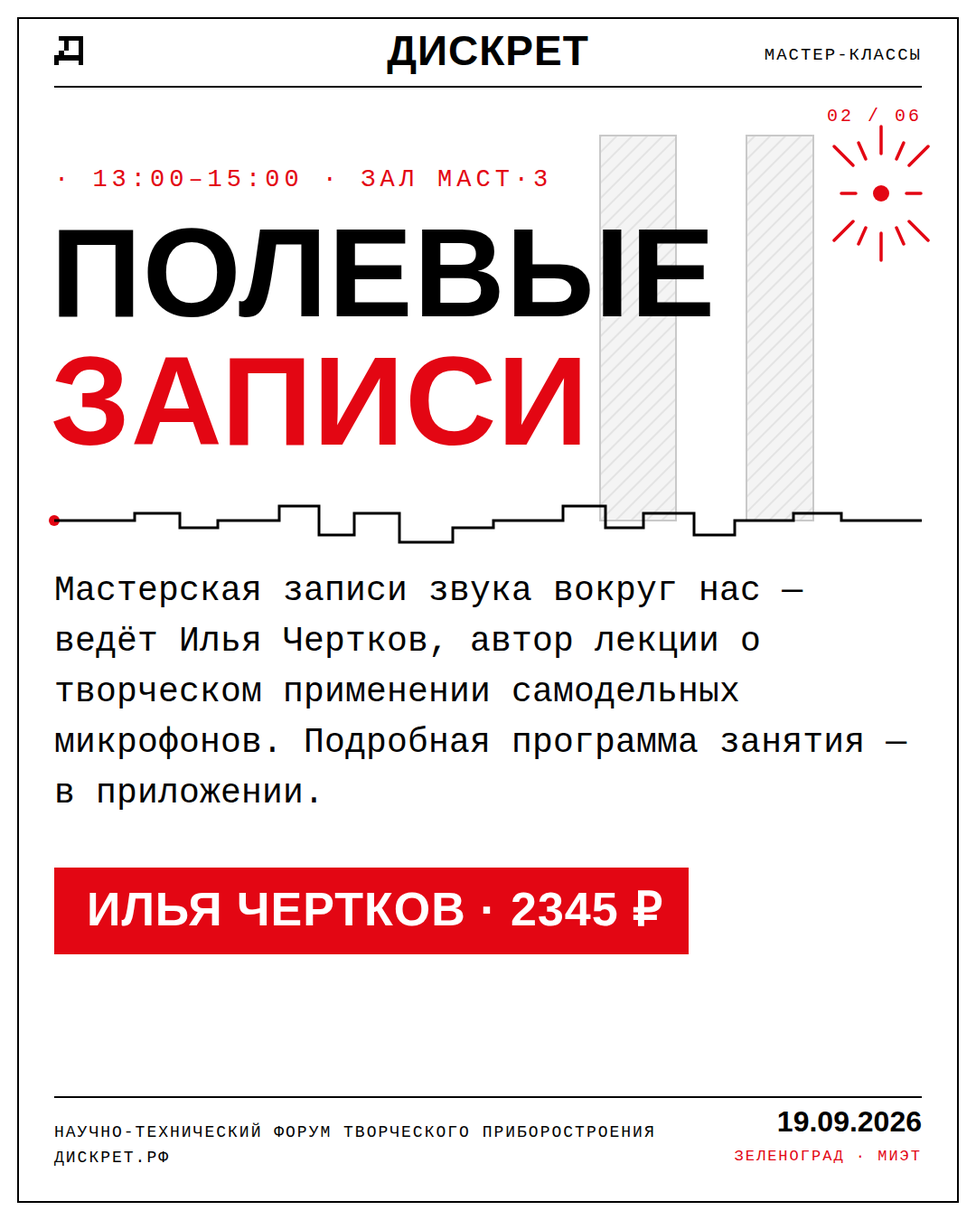
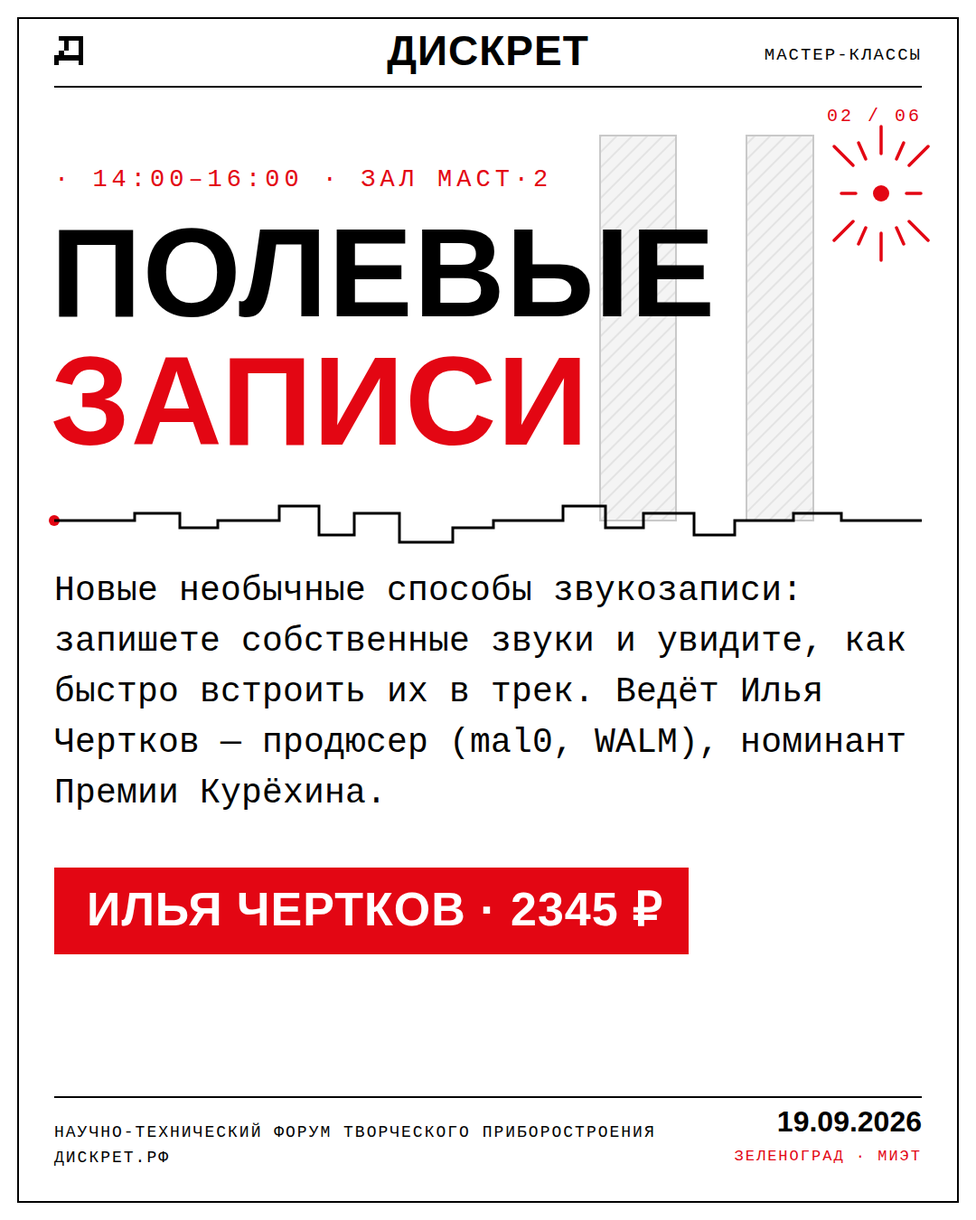
Полное расписание по финальной сетке: лектории Растр/Вектор, программа одним листом
- залы переименованы: РАСТР (3101, широкая аудитория) и ВЕКТОР (3104,
  технический язык); сцены — КЛУБ и ДК; демо-сцена на экспо
- в расписание сайта добавлены все 10 лекций + Забелин (Ground) и
  Орлов-Давыдовский на демо-сцене; мастерских теперь две (Чертков
  переехал в МАСТ·2, 14:00–16:00); детские — 6–12 и 10–99 лет
- programma-tg (1080×1350): вся программа дня на одном листе
- карточка Черткова: биография и связка мастерская+лекция
- press/lectures.md: полные описания лекций с доски
- контент-план: лекторий финализирован, Мирзоев и его тема, пост
  программы 13.09 написан, время Черткова обновлено

Claude-Session: https://claude.ai/code/session_01J7cakNvVwscKzgnd8yf78u

Changed region(s): [[0.0611, 0.4667, 0.9167, 0.6844], [0.8556, 0.4978, 0.9167, 0.5289]]

diff --git a/branding/app/index.html b/branding/app/index.html
@@ -601,28 +601,42 @@ const POSTS = [
 ];
 
 // ===== РАСПИСАНИЕ (по рабочей сетке форума, черновик) =====
-const ROOMS = { hall:"ЭКСПО", sm:"СЦЕНА·М", sb:"СЦЕНА·Б", w1:"МАСТ·1", w2:"МАСТ·2", w3:"МАСТ·3", kids:"ДЕТСКАЯ", l2:"ЛЕК·3102", l1:"ЛЕК·3101", all:"ВСЕ ЗАЛЫ" };
+const ROOMS = { hall:"ЭКСПО·ДЕМО", sm:"СЦЕНА КЛУБ", sb:"СЦЕНА ДК", l1:"РАСТР", l2:"ВЕКТОР", w1:"МАСТ·1", w2:"МАСТ·2", kids:"ДЕТСКАЯ", all:"ВСЕ ЗАЛЫ" };
 // go: переключить вкладку · link: открыть карточку девайса
+// Лектории: РАСТР (3101) — темы для широкой аудитории, ВЕКТОР (3104) — технический язык
 const SCHED = [
   { t:"13:00", e:"20:00", title:"Экспо участников", who:"все приборы стенда", room:"hall", go:"devices" },
-  { t:"13:00", e:"15:00", title:"Полевые записи", who:"Илья Чертков · 2345 ₽", room:"w3", author:"chertkov" },
+  { t:"13:00", e:"13:50", title:"xandr.vasiliev и Артемий Анрилов", who:"лайв на Twang Modular", room:"hall", author:"anrilov" },
   { t:"13:00", e:"", title:"Игра с тенью", who:"Светлана Гончар", room:"sm", author:"shadow" },
+  { t:"13:50", e:"14:10", title:"Вводное слово · экскурс по программе форума", who:"", room:"hall" },
   { t:"14:00", e:"", title:"TiihayaRekaa", who:"Катрин Моррисон", room:"sm", author:"tiihaya" },
-  { t:"14:00", e:"15:00", title:"Мастерская звуков · дети 5–10 лет", who:"Олег Слуцкий · 876 ₽", room:"kids", author:"slutsky" },
-  { t:"14:00", e:"14:30", title:"Мини-презентация проектов", who:"участники экспо", room:"hall", go:"devices" },
-  { t:"14:30", e:"15:15", title:"xandr.vasiliev vs Артемий Анрилов", who:"лайв на Twang Modular", room:"hall", author:"anrilov" },
+  { t:"14:00", e:"15:00", title:"Мастерская звуков · дети 6–12 лет", who:"Олег Слуцкий · 876 ₽", room:"kids", author:"slutsky" },
+  { t:"14:00", e:"16:00", title:"Полевые записи", who:"Илья Чертков · 2345 ₽", room:"w2", author:"chertkov" },
+  { t:"14:00", e:"15:00", title:"Бесконденсаторные фильтры в синтезаторах: особенности, история, перспективы", who:"Владимир Кабанов · ПРИБОР", room:"l1" },
+  { t:"14:00", e:"15:00", title:"Аудиовизуальная синестезия", who:"Николай Козловский", room:"l2" },
+  { t:"14:10", e:"14:40", title:"Мини-презентация проектов", who:"участники экспо", room:"hall", go:"devices" },
+  { t:"14:40", e:"14:50", title:"Экскурсия по МИЭТу", who:"", room:"hall" },
+  { t:"14:50", e:"15:40", title:"Gogidze", who:"", room:"hall", author:"gogidze" },
   { t:"15:00", e:"", title:"Там Огни | c0deterr0r", who:"Александр Гриднев", room:"sm", author:"codeterror" },
   { t:"15:00", e:"18:00", title:"Воркшоп · Хаотический синтезатор", who:"Полина Шмонина · 4567 ₽", room:"w1", author:"polina" },
-  { t:"15:30", e:"16:00", title:"Экскурсия по МИЭТ", who:"", room:"hall" },
-  { t:"16:00", e:"16:45", title:"Gogidze", who:"", room:"hall", author:"gogidze" },
+  { t:"15:00", e:"16:00", title:"Цена и ценность музыкальных устройств", who:"Евгений Карло", room:"l1" },
+  { t:"15:00", e:"16:00", title:"Микроконтроллеры и их применение — в технике, в жизни, в музыке", who:"Иван Антоновский · АНГСТРЕМ", room:"l2" },
+  { t:"15:40", e:"16:10", title:"Мини-презентация проектов", who:"участники экспо", room:"hall", go:"devices" },
   { t:"16:00", e:"", title:"М.О.У.Б.", who:"Игорь Прокофьев", room:"sm", author:"moub" },
   { t:"16:00", e:"16:45", title:"Анна Пряхина", who:"", room:"sb", author:"pryahina" },
   { t:"16:00", e:"19:00", title:"Воркшоп · Аналоговый синтезатор на интегральной микросхеме", who:"Егор Воронов · 4567 ₽", room:"w2", author:"voronov" },
-  { t:"16:00", e:"17:00", title:"Синтезатор из сковородки · с 10 лет и родители", who:"Олег Слуцкий · 987 ₽", room:"kids", author:"slutsky" },
-  { t:"17:00", e:"17:30", title:"Мини-презентация проектов", who:"участники экспо", room:"hall", go:"devices" },
+  { t:"16:00", e:"17:00", title:"Синтезатор из сковородки · от 10 до 99 лет", who:"Олег Слуцкий · 987 ₽", room:"kids", author:"slutsky" },
+  { t:"16:00", e:"17:00", title:"Технический дизайн: дьявол в деталях", who:"Александр Пленингер · онлайн-лекция", room:"l1" },
+  { t:"16:00", e:"17:00", title:"3D-печать в музыкальной электронике: как выбрать материал и спроектировать деталь", who:"Игорь Мирзоев · Пикасо 3D", room:"l2" },
+  { t:"16:20", e:"17:15", title:"Никита Забелин · Ground", who:"", room:"hall" },
   { t:"17:00", e:"", title:"dr.SpaceKir", who:"", room:"sm", author:"spacekir" },
-  { t:"17:00", e:"17:45", title:"Влад Лисицкий · AV", who:"", room:"sb", author:"lisitsky" },
+  { t:"17:00", e:"17:45", title:"H.Ruine · AV", who:"Влад Лисицкий", room:"sb", author:"lisitsky" },
+  { t:"17:00", e:"18:00", title:"DSP-платформа SEMECHKO", who:"Александр Григорьев и Захар Лунев", room:"l1" },
+  { t:"17:00", e:"18:00", title:"Творческое применение самодельных микрофонов", who:"Илья Чертков", room:"l2", author:"chertkov" },
+  { t:"17:30", e:"18:30", title:"Кастомные инструменты для шумовых перформансов", who:"Георгий Орлов-Давыдовский", room:"hall" },
   { t:"18:00", e:"", title:"Alexander Turkin", who:"", room:"sm", author:"turkin" },
+  { t:"18:00", e:"19:00", title:"Медицинский звук: использование в звукоэкспериментальных целях", who:"Владимир Черепанов", room:"l1" },
+  { t:"18:00", e:"19:00", title:"Опыт малотиражной разработки Boring modular", who:"Алекс Каут", room:"l2" },
   { t:"19:00", e:"20:00", title:"Финальное выступление · результаты конкурса", who:"", room:"sb" },
 ];
 
@@ -636,7 +650,8 @@ const A = [
   { id:"cherto", name:"Илья Черто", role:"Лекция · Самодельные микрофоны и датчики", session:"ЛЕКЦИЯ", room:"l1", time:"17:00–17:45", photos:[], links:[], desc:"" },
   { id:"polina", name:"Полина Шмонина", role:"Воркшоп · Хаотический синтезатор · 4567 ₽", session:"ВОРКШОП", room:"w1", time:"15:00–18:00", photos:[], links:[],
     desc:"Каждый участник соберёт авторский шумовой синтезатор методом circuit bending — экспериментального изменения готовых электронных плат. Вместо заранее заданного результата — исследование схемы: неожиданные связи, сбои, глитчи и обратная связь превращаются в выразительный звуковой материал. Основа устройства — два модуля: простой звукоусилитель и эхо-процессор для караоке; участники модифицируют платы, создадут петли обратной связи, добавят элементы управления и сенсорные контакты, реагирующие на прикосновение. Рассчитано на начинающих: базовые приёмы пайки, компоненты, принципы экспериментальной электроники. Собранный генератор шумовых текстур каждый забирает с собой." },
-  { id:"chertkov", name:"Илья Чертков", role:"Полевые записи · мастерская · 2345 ₽", session:"ВОРКШОП", room:"w3", time:"13:00–15:00", photos:[], links:[], desc:"" },
+  { id:"chertkov", name:"Илья Чертков", role:"Полевые записи · мастерская · 2345 ₽", session:"ВОРКШОП + ЛЕКЦИЯ", room:"w2", time:"14:00–16:00 и 17:00", photos:[], links:[],
+    desc:"Владимирский музыкальный продюсер (mal0, WALM, ошуюю), номинант на Премию Курёхина, блогер и лектор («Культура», «Новая музыка» на Новой сцене Александринского).\n\nМастерская полевых записей (14:00–16:00, МАСТ·2, 2345 ₽): новые необычные способы звукозаписи — запишете собственные звуки и увидите, как быстро встроить их в трек.\n\nЛекция «Творческое применение самодельных микрофонов» (17:00, зал ВЕКТОР): о необычных микрофонах и о том, как записанные шумы можно использовать в современной музыке." },
   { id:"voronov", name:"Егор Воронов", role:"Воркшоп · Аналоговый синтезатор на интегральной микросхеме · 4567 ₽", session:"ВОРКШОП", room:"w2", time:"16:00–19:00", photos:[], links:[],
     desc:"Каждый участник соберёт собственный аналоговый синтезатор на интегральной микросхеме. Занятие подойдёт новичкам и любителям электроники, которые хотят освоить пайку на практике и получить законченное работающее устройство: выводные компоненты, назначение основных деталей, последовательность сборки платы; желающие попробуют монтаж SMD. Предварительный опыт не обязателен — ведущий объяснит приёмы и поможет на каждом этапе. Все компоненты включены в стоимость; собранный синтезатор участник проверяет в работе и забирает с собой." },
   { id:"totoro", name:"Карманная драм-машина", role:"Воркшоп · сборка своими руками · 5000 ₽", session:"ВОРКШОП", room:"w2", time:"16:00–19:00", photos:[], links:[], desc:"Воркшоп по сборке карманной драм-машины своими руками." },
@@ -658,9 +673,9 @@ const A = [
   { id:"spacekir", name:"dr.SpaceKir", role:"Space ambient / drone · Зеленогорск — Санкт-Петербург", session:"ЛАЙВ", room:"sm", time:"17:00", photos:["spacekir1"],
     links:[{t:"BANDCAMP",u:"https://drspacekir.bandcamp.com"},{t:"YOUTUBE",u:"https://youtube.com/@dr.spacekir"},{t:"SOUNDCLOUD",u:"https://soundcloud.com/dr-spacekir"}],
     desc:"dr.SpaceKir — space ambient / drone Кирилла из Зеленогорска: размышления о космическом пространстве и его атмосфере, переданные через синтезаторные импровизации. Всё вживую, без компьютера: синтезатор, грувбокс и полевые записи." },
-  { id:"gogidze", name:"Gogidze", role:"Живое выступление · зона экспо", session:"ЛАЙВ", room:"hall", time:"16:00–16:45", photos:[], links:[], desc:"" },
+  { id:"gogidze", name:"Gogidze", role:"Живое выступление · зона экспо", session:"ЛАЙВ", room:"hall", time:"14:50–15:40", photos:[], links:[], desc:"" },
   { id:"pryahina", name:"Анна Пряхина", role:"Живое выступление · большая сцена", session:"ЛАЙВ", room:"sb", time:"16:00–16:45", photos:[], links:[], desc:"" },
-  { id:"anrilov", name:"xandr.vasiliev vs Артемий Анрилов", role:"Совместный лайв на Twang Modular · дебют дуэта", session:"ЛАЙВ", room:"hall", time:"14:30–15:15", photos:[], links:[],
+  { id:"anrilov", name:"xandr.vasiliev vs Артемий Анрилов", role:"Совместный лайв на Twang Modular · дебют дуэта", session:"ЛАЙВ", room:"hall", time:"13:00–13:50", photos:[], links:[],
     desc:"Музыканты, давно связанные годами творческой работы, но ни разу не выступавшие вместе. Артемий Анрилов работает в электронной музыке с 1990-х: от ранних экспериментов в компьютерных трекерах до глубокого погружения в аналоговый и модульный синтез; в основе его языка — тембр, модуляция и внутренняя динамика звука. Основатель лейбла Fragment, куратор Signal Music Residency, резидент Resonance Moscow. xandr.vasiliev — московский музыкант и композитор: электроника, постиндустриальный шум, минимализм и кинематографический саундскейп; резидент Resonance Moscow, преподаватель продакшна, микс- и мастеринг-инженер, участник фестивалей Signal, Outline, Gamma, NUR и Дягилевского. Оба используют исключительно модули Twang Modular: совместный лайв — дебют дуэта и презентация возможностей системы, диалог двух авторских подходов в реальном времени на единой платформе." },
   { id:"turkin", name:"Alexander Turkin", role:"Живая электроника · Pulsar-23", session:"ЛАЙВ", room:"sm", time:"18:00", photos:[],
     links:[{t:"INSTAGRAM",u:"https://instagram.com/a.atu"}],
@@ -767,7 +782,7 @@ const L = {
     "tag.ticket":"билет", "tag.spot":"стойка", "theme.light":"Светлая", "theme.dark":"Тёмная",
     "sec.devices":"Девайсы", "sec.schedule":"Расписание", "sec.forum":"Форум", "sec.posts":"Лента",
     "posts.empty":"Скоро — дублируем посты из Telegram", "posts.open":"В Telegram", "posts.more":"Читать целиком",
-    "dev.count":"ПРИБОРОВ", "sched.draft":"Лекционный блок объявим отдельно · время может уточняться",
+    "dev.count":"ПРИБОРОВ", "sched.draft":"Полная программа · РАСТР — лекции для широкой аудитории, ВЕКТОР — технический язык · время может уточняться",
     "sched.open":"открыть ↗", "forum.chron":"Хроника анонсов", "forum.post":"ПОСТ", "forum.tickets":"Билеты", "share":"Поделиться", "share.copied":"Ссылка скопирована",
     "forum.prose":`<h3 class="prose-h">Что такое Дискрет</h3><p class="blurb"><b>Есть люди, которые делают приборы.</b></p><p class="blurb">Не только пользуются готовым. Не ждут, пока производитель решит за них, какой звук, какой интерфейс, какой способ управления им нужен. Они берут схему, корпус, датчик, разъём, ручку, кусок панели, чужую ошибку, свою упрямую гипотезу — и доводят это до объекта, который можно включить. Иногда это синтезатор. Иногда фонарь. Иногда инсталляция, самодельный микрофон, модуль, процессор, шумовой генератор или устройство, которому ещё трудно дать имя.</p><p class="blurb">ДИСКРЕТ собирает такие объекты и людей вокруг них.</p>`,
     "badge.device":"ДЕВАЙС №", "badge.author":"АВТОР", "badge.company":"КОМПАНИЯ", "badge.product":"ТОВАР",
@@ -804,7 +819,7 @@ const L = {
     "tag.ticket":"по билету", "tag.spot":"стойка", "theme.light":"Светлая", "theme.dark":"Тёмная",
     "sec.devices":"Аппараты", "sec.schedule":"Расклад", "sec.forum":"Сходка", "sec.posts":"Сводки",
     "posts.empty":"Скоро — зальём посты из Telegram", "posts.open":"В Telegram", "posts.more":"Читать целиком",
-    "dev.count":"АППАРАТОВ", "sched.draft":"Лекции подгоним отдельно · тайминг могут подвинуть",
+    "dev.count":"АППАРАТОВ", "sched.draft":"Полная программа · РАСТР — для всех, ВЕКТОР — для тех, кто в теме · тайминг могут подвинуть",
     "sched.open":"глянуть ↗", "forum.chron":"Хроника движа", "forum.post":"ПОСТ", "forum.tickets":"Проходки", "share":"Кинуть своим", "share.copied":"Ссылка в кармане — скопирована",
     "forum.prose":`<h3 class="prose-h">Что за Дискрет</h3><p class="blurb"><b>Есть люди, которые сами мутят приборы.</b></p><p class="blurb">Не просто берут готовое. Не ждут, пока производитель решит за них, какой звук, какой интерфейс, каким способом всем этим рулить. Они берут схему, корпус, датчик, разъём, ручку, кусок панели, чужой косяк, свою упрямую тему — и доводят это до аппарата, который реально включается. Иногда это синтезатор. Иногда фонарь. Иногда инсталляция, самопальный микрофон, модуль, процессор, шумовой генератор или штука, которой ещё и имя-то дать сложно.</p><p class="blurb">ДИСКРЕТ сводит такие аппараты и пацанов вокруг них.</p>`,
     "badge.device":"АППАРАТ №", "badge.author":"МАСТЕР", "badge.company":"КОНТОРА", "badge.product":"ТОВАР",
@@ -841,7 +856,7 @@ const L = {
     "tag.ticket":"ticket", "tag.spot":"spot", "theme.light":"Лайт", "theme.dark":"Дарк",
     "sec.devices":"Девайсы", "sec.schedule":"Тайминги", "sec.forum":"Тусич", "sec.posts":"Фид",
     "posts.empty":"Скоро — задропим посты из Telegram", "posts.open":"В тг", "posts.more":"Читать всё",
-    "dev.count":"ДЕВАЙСОВ", "sched.draft":"Лекции дропнем отдельным анонсом · тайминги могут поехать",
+    "dev.count":"ДЕВАЙСОВ", "sched.draft":"Фулл программа · РАСТР — для всех, ВЕКТОР — хардкор · тайминги могут поехать",
     "sched.open":"го ↗", "forum.chron":"Лента анонсов", "forum.post":"ПОСТ", "forum.tickets":"Тикеты", "share":"Шэрнуть", "share.copied":"Линк скопирован",
     "forum.prose":`<h3 class="prose-h">Что за Дискрет вообще</h3><p class="blurb"><b>Есть чуваки, которые сами крафтят приборы.</b></p><p class="blurb">Не просто юзают готовое. Не ждут, пока производитель зарешает за них, какой звук, какой интерфейс, каким способом этим рулить. Они берут схему, корпус, датчик, разъём, ручку, кусок панели, чужой фейл, свою упрямую гипотезу — и доводят это до девайса, который реально врубается. Иногда это синтезатор. Иногда фонарь. Иногда инсталляция, самодельный микрофон, модуль, процессор, шумовой генератор или штука, которой пока даже имя не подобрать.</p><p class="blurb">ДИСКРЕТ коннектит такие девайсы и пипл вокруг них.</p>`,
     "badge.device":"ДЕВАЙС №", "badge.author":"АВТОР", "badge.company":"БРЕНД", "badge.product":"ДРОП",
@@ -878,7 +893,7 @@ const L = {
     "tag.ticket":"билет", "tag.spot":"стенд", "theme.light":"Светлое", "theme.dark":"Тёмное",
     "sec.devices":"Приборы", "sec.schedule":"Программа", "sec.forum":"Форум", "sec.posts":"Хроника",
     "posts.empty":"Скоро — публикуем сводки из Telegram", "posts.open":"В Telegram", "posts.more":"Читать полностью",
-    "dev.count":"ПРИБОРОВ", "sched.draft":"Лекционная программа будет объявлена дополнительно · время уточняется",
+    "dev.count":"ПРИБОРОВ", "sched.draft":"Полная программа · РАСТР — лекции для широкой аудитории, ВЕКТОР — технический язык · время уточняется",
     "sched.open":"открыть ↗", "forum.chron":"Хроника анонсов", "forum.post":"СВОДКА", "forum.tickets":"Приобрести билет", "share":"Поделиться", "share.copied":"Ссылка скопирована",
     "badge.device":"ПРИБОР №", "badge.author":"АВТОР", "badge.company":"КОЛЛЕКТИВ", "badge.product":"ИЗДЕЛИЕ",
     "key.author":"Автор", "key.format":"Тип", "key.stage":"Сцена", "key.time":"Время", "key.hall":"Зал",

diff --git a/branding/press/lectures.md b/branding/press/lectures.md
@@ -1,0 +1,94 @@
+# Лекторий ДИСКРЕТА · описания лекций (с доски расписания)
+
+Залы: **РАСТР (3101)** — лекции для широкой аудитории, **ВЕКТОР (3104)** —
+технический язык. Две лекции вынесены на демо-сцену экспо.
+Материал для лекционных постов и полной программы.
+
+## РАСТР · 3101
+
+### 14:00 · Бесконденсаторные фильтры в синтезаторах — Владимир Кабанов (ПРИБОР)
+История, особенности применения и новые перспективы. Бесконденсаторный
+фильтр на программируемых операционных усилителях — основа фирменного
+звука легендарного синтезатора «Поливокс». Однако мало кому известно,
+что подобные конструкции были известны и раньше, а ещё сложнее
+вообразить, что новые схемы бесконденсаторных фильтров могут появляться
+даже в наши дни. Яркий звук за счёт нелинейных искажений и невероятно
+простая схемотехника делают программируемые ОУ идеальным структурным
+элементом для устройств, обогащающих тембр новыми красками.
+
+На лекции петербургского инженера — история использования
+бесконденсаторных фильтров в синтезаторах и практика разработки новых
+конструкций; применение различных программируемых ОУ, включая
+оригинальные схемотехнические решения. Также состоится презентация
+новейшего мультитембрального синтезатора-процессора **ПРИБОР Меркурий**.
+
+### 15:00 · Цена и ценность музыкальных устройств — Евгений Карло
+Что определяет ценность, как ограничения формируют функционал и почему
+отказ от возможностей делает устройство лучше и помогает находить новые
+решения. Личный опыт и взгляды на разработку.
+
+### 16:00 · Технический дизайн: дьявол в деталях — Александр Пленингер (онлайн)
+Про всякие на первый взгляд малозначительные мелочи при проектировании
+и разработке электроники — через годы собственного опыта.
+
+### 17:00 · DSP-платформа SEMECHKO — Александр Григорьев, Захар Лунев
+Выступление вместе с «Семечкой»: сначала о самой платформе с показом
+прошивок, затем — о программном продукте, который делает
+программирование аудиоустройств проще (уровень доступности и
+дружелюбности Arduino). IDE: основная цель; начало работы; интеграция
+платы (поддерживаются платы типа STM32, Daisy и Semechko); установка
+пинов, прошивка на примере проекта; своя библиотека и упрощённый
+синтаксис; перспективы.
+
+### 18:00 · Медицинский звук: использование в звукоэкспериментальных целях — Владимир Черепанов
+(описание уточняется)
+
+## ВЕКТОР · 3104
+
+### 14:00 · Аудиовизуальная синестезия — Николай Козловский
+Идея связи аудио и видео прошла через набор различного целеполагания:
+от научного исследования до творческого инструментария. Сейчас,
+благодаря ИИ, одним из наиболее удобных и доступных инструментов для
+создания аудиовизуальных работ является hydra video synth. Чаще всего
+развитие композиции аудиовизуальных работ опирается на сопровождение
+видео звуками — новый творческий метод предлагает систему маятника, где
+развитие композиции по очереди зависит то от преобразования звука, то
+от преобразования видео.
+
+### 15:00 · Микроконтроллеры и их применение — в технике, в жизни, в музыке — Иван Антоновский (АНГСТРЕМ)
+Четыре части: как из кремния получается кристалл; что такое
+микроконтроллер и из чего он состоит; какие микроконтроллеры
+производятся и чем отличаются; БМК. Темы раскрываются через применение
+микроконтроллеров и БМК в музыкальной технике.
+
+### 16:00 · 3D-печать в музыкальной электронике — Игорь Мирзоев (Пикасо 3D)
+«Как выбрать материал и спроектировать деталь, которую можно
+распечатать». Игорь Мирзоев — руководитель службы сервиса и технической
+поддержки ПИКАСО 3Д. Тезисы: возможности 3D-печати при разработке
+музыкальной электроники; выбор материалов для корпусов, креплений,
+элементов управления и прототипов; особенности проектирования деталей
+для 3D-печати; влияние температуры, нагрузок и вибраций на конструкцию
+прибора; переход от прототипа к готовому устройству или малой серии.
+
+### 17:00 · Творческое применение самодельных микрофонов — Илья Чертков
+Илья Чертков — владимирский музыкальный продюсер (mal0, WALM, ошуюю),
+номинант на Премию Курёхина, блогер и лектор («Культура», «Новая
+музыка» на Новой сцене Александринского). Расскажет о необычных
+микрофонах и о том, как записанные шумы можно использовать в
+современной музыке. В рамках лекции — новые необычные способы
+звукозаписи; в мастер-классе (14:00–16:00, МАСТ·2) участники запишут
+собственные звуки и увидят, как быстро встроить их в трек.
+
+### 18:00 · Опыт малотиражной разработки Boring modular — Алекс Каут
+Boring modular — команда из двух человек: сначала просто собирали
+интересные DIY-проекты макетками и ЛУТом, потом решили реализовать
+самые понравившиеся проекты мелкосерийно. На данный момент готовых
+проектов в продаже нет.
+
+## Демо-сцена экспо
+
+### 16:20 · Никита Забелин · Ground
+(описание уточняется)
+
+### 17:30 · Кастомные инструменты для шумовых перформансов — Георгий Орлов-Давыдовский
+(описание уточняется)

diff --git a/branding/press/content-plan.md b/branding/press/content-plan.md
@@ -125,7 +125,9 @@ circuit bending.
 — **Микроконтроллеры и их применение — в технике, в жизни, в музыке** —
 Иван Антоновский, АНГСТРЕМ
 — **Цена и ценность музыкальных устройств** — Евгений Карло
-— **Выбор материалов для корпуса** — Пикасо 3D
+— **3D-печать в музыкальной электронике: как выбрать материал и
+спроектировать деталь, которую можно распечатать** — Игорь Мирзоев,
+Пикасо 3D
 — **Творческое применение самодельных микрофонов** — Илья Чертков
 — **Опыт малотиражной разработки Boring modular** — Каут Алекс
 — **Технический дизайн: дьявол в деталях** — Александр Пленингер
@@ -134,12 +136,14 @@ circuit bending.
 Два лекционных зала, весь день, без воды. Время каждой лекции — в полной
 программе, её опубликуем ближе к форуму.
 
-*(служебное: темы сверены с доской расписания. Осталось уточнить:
-спикер лекции Пикасо 3D («как зовут выступающего?» на самой доске),
-темы Игоря Мирзоева и Никиты Забелина. Евгений Карло появился на доске,
-но его не было в списке лекторов — добавить? Слоты по залам: 3102
-большая — Кабанов, Карло, Пленингер, Григорьев+Лунев, Черепанов;
-3101 малая — Козловский, Антоновский, Пикасо, Чертков, Каут.)*
+*(служебное: сетка финализирована. Залы переименованы: РАСТР (3101) —
+лекции для широкой аудитории, ВЕКТОР (3104) — технический язык.
+РАСТР: Кабанов 14:00, Карло 15:00, Пленингер 16:00 (онлайн),
+Григорьев+Лунев 17:00, Черепанов 18:00. ВЕКТОР: Козловский 14:00,
+Антоновский 15:00, Мирзоев 16:00, Чертков 17:00, Каут 18:00.
+Две лекции вынесены на демо-сцену экспо: Никита Забелин · Ground
+(16:20) и Орлов-Давыдовский «Кастомные инструменты для шумовых
+перформансов» (17:30). Полные описания лекций — в press/lectures.md.)*
 
 🎟 Билеты: flat.audio/e/2470
 📅 19.09.2026 · с 13:00 · 📍 Зеленоград · МИЭТ
@@ -198,9 +202,10 @@ VK: vk.com/efemisynths · TG: @efemisynths
 Твёрдо фиксируем программу мастерских — три зала, весь день, паяльник
 дают в руки.
 
-— **Полевые записи** — Илья Чертков · 13:00–15:00 · **2345 ₽**
-Как слушать мир и записывать его: практика полевой записи от человека,
-который делает это годами.
+— **Полевые записи** — Илья Чертков · 14:00–16:00 · **2345 ₽**
+Новые необычные способы звукозаписи: запишете собственные звуки и
+увидите, как быстро встроить их в трек. Ведёт владимирский продюсер
+(mal0, WALM, ошуюю), номинант на Премию Курёхина.
 
 — **Хаотический синтезатор** — Полина Шмонина · 15:00–18:00 · **4567 ₽**
 Авторский шумовой синтезатор методом circuit bending: исследуем готовые
@@ -279,12 +284,16 @@ VK: vk.com/efemisynths · TG: @efemisynths
 
 **ЗВУК ВОКРУГ НАС: ПОЛЕВЫЕ ЗАПИСИ С ИЛЬЁЙ ЧЕРТКОВЫМ**
 
-[Нужна программа мастер-класса от Ильи — пришлёт текст, как у Воронова
-и Шмониной. Известно: 13:00–15:00, зал МАСТ·3, 2345 ₽; Илья также
-читает лекцию «Творческое применение самодельных микрофонов» и делает
-инсталляцию.]
+Илья Чертков — владимирский музыкальный продюсер (mal0, WALM, ошуюю),
+номинант на Премию Курёхина, блогер и лектор («Культура», «Новая
+музыка» на Новой сцене Александринского).
 
-🛠 13:00–15:00 · зал МАСТ·3 · 2345 ₽
+На мастерской — новые необычные способы звукозаписи: запишете
+собственные звуки и увидите, как быстро встроить их в трек. А в 17:00
+в лектории ВЕКТОР Илья расскажет о творческом применении самодельных
+микрофонов — мастерская и лекция дополняют друг друга.
+
+🛠 14:00–16:00 · зал МАСТ·2 · 2345 ₽
 🎟 flat.audio/e/2470 · 📅 19.09.2026
 📍 Зеленоград · МИЭТ · 🤖 @dskrt_bot · 🌐 дискрет.рф
 
@@ -358,13 +367,30 @@ VK: vk.com/efemisynths · TG: @efemisynths
 
 ---
 
-## 13.09 · Публикация программы (каркас)
+## 13.09 · Публикация программы
+(карточка: renders/afisha/programma-tg.png — вся программа на одном листе)
 
-**ПРОГРАММА ДИСКРЕТА — ЦЕЛИКОМ**
+**ПРОГРАММА ДИСКРЕТА — ПО ЧАСАМ**
 
-За неделю до форума фиксируем программу целиком: экспо, две сцены, три
-мастерские, детская зона и лекторий — всё по часам в приложении:
-@dskrt_bot → «Расписание». [+ карточка/скрины расписания]
+За неделю до форума фиксируем программу целиком — на одном листе,
+сохраняйте карточку:
+
+— **Экспо** — 13:00–20:00, 26 участников, каждый прибор можно включить
+— **Демо-сцена прямо на экспо** — лайвы Анрилова с xandr.vasiliev и
+Gogidze, мини-презентации проектов, экскурсия по МИЭТу, Никита Забелин
+с проектом Ground и лекция о кастомных шумовых инструментах
+— **Сцена КЛУБ** — шесть лайвов подряд с 13:00
+— **Сцена ДК** — Анна Пряхина, аудиовизуальный сет H.Ruine и финал
+с результатами конкурса
+— **Два лектория**: РАСТР — темы для широкой аудитории, ВЕКТОР — для
+тех, кто хочет технических подробностей. По пять лекций в каждом
+— **Мастерские** Черткова, Шмониной и Воронова и два детских семинара
+
+Время может уточняться — актуальная сетка всегда в приложении:
+@dskrt_bot → «Расписание».
+
+🎟 flat.audio/e/2470 · 📅 19.09.2026 · с 13:00
+📍 Зеленоград · МИЭТ · 🌐 дискрет.рф
 
 ---
 
